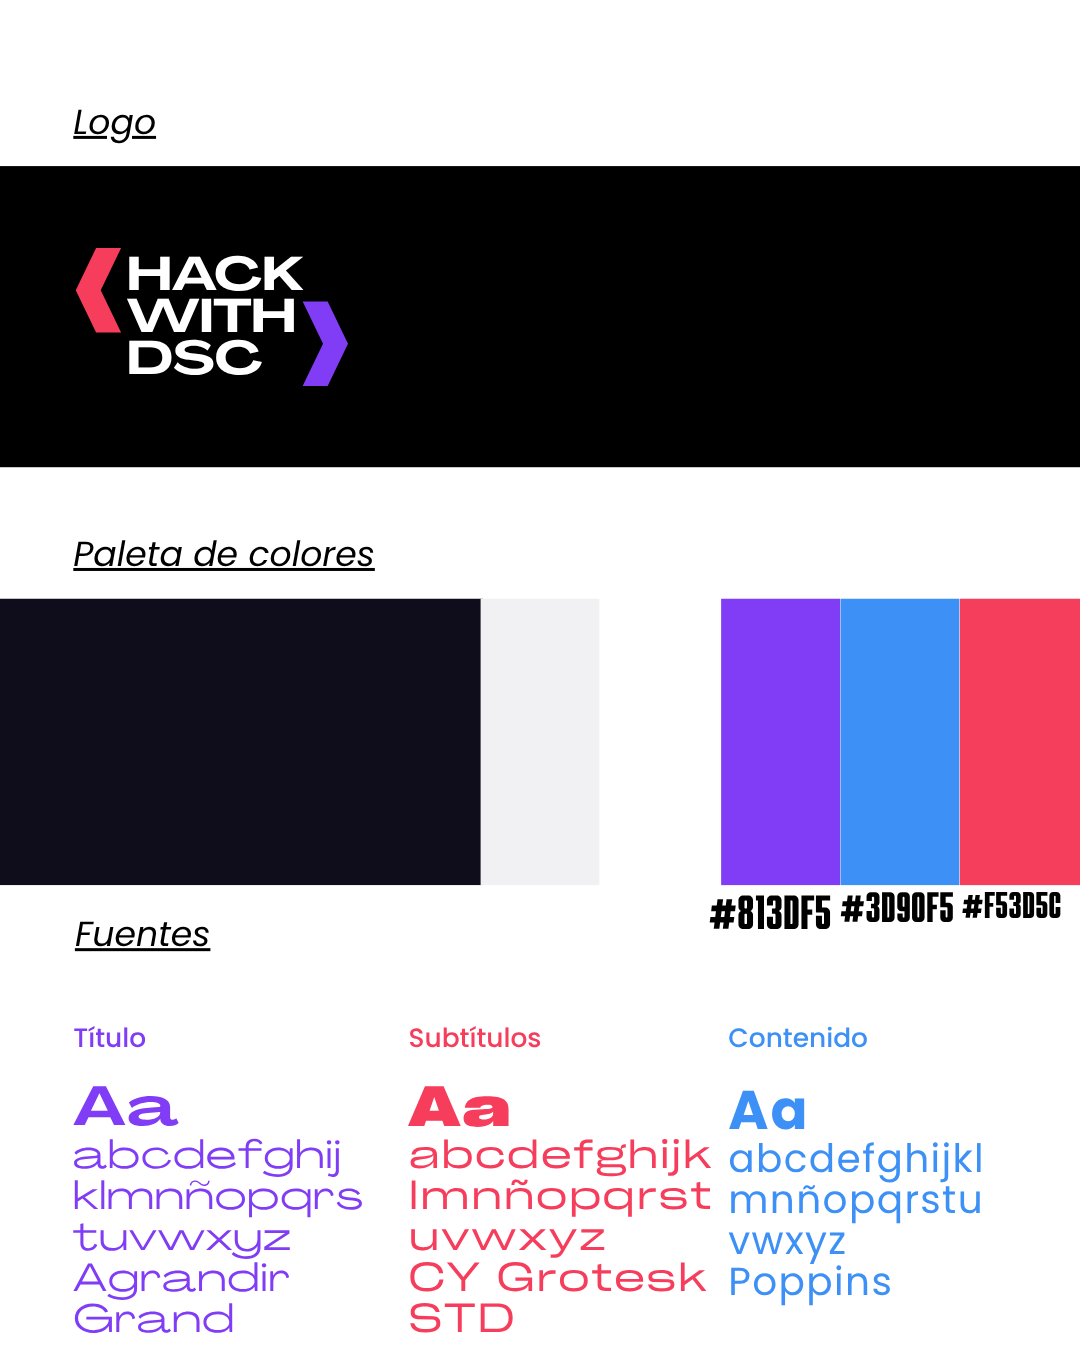
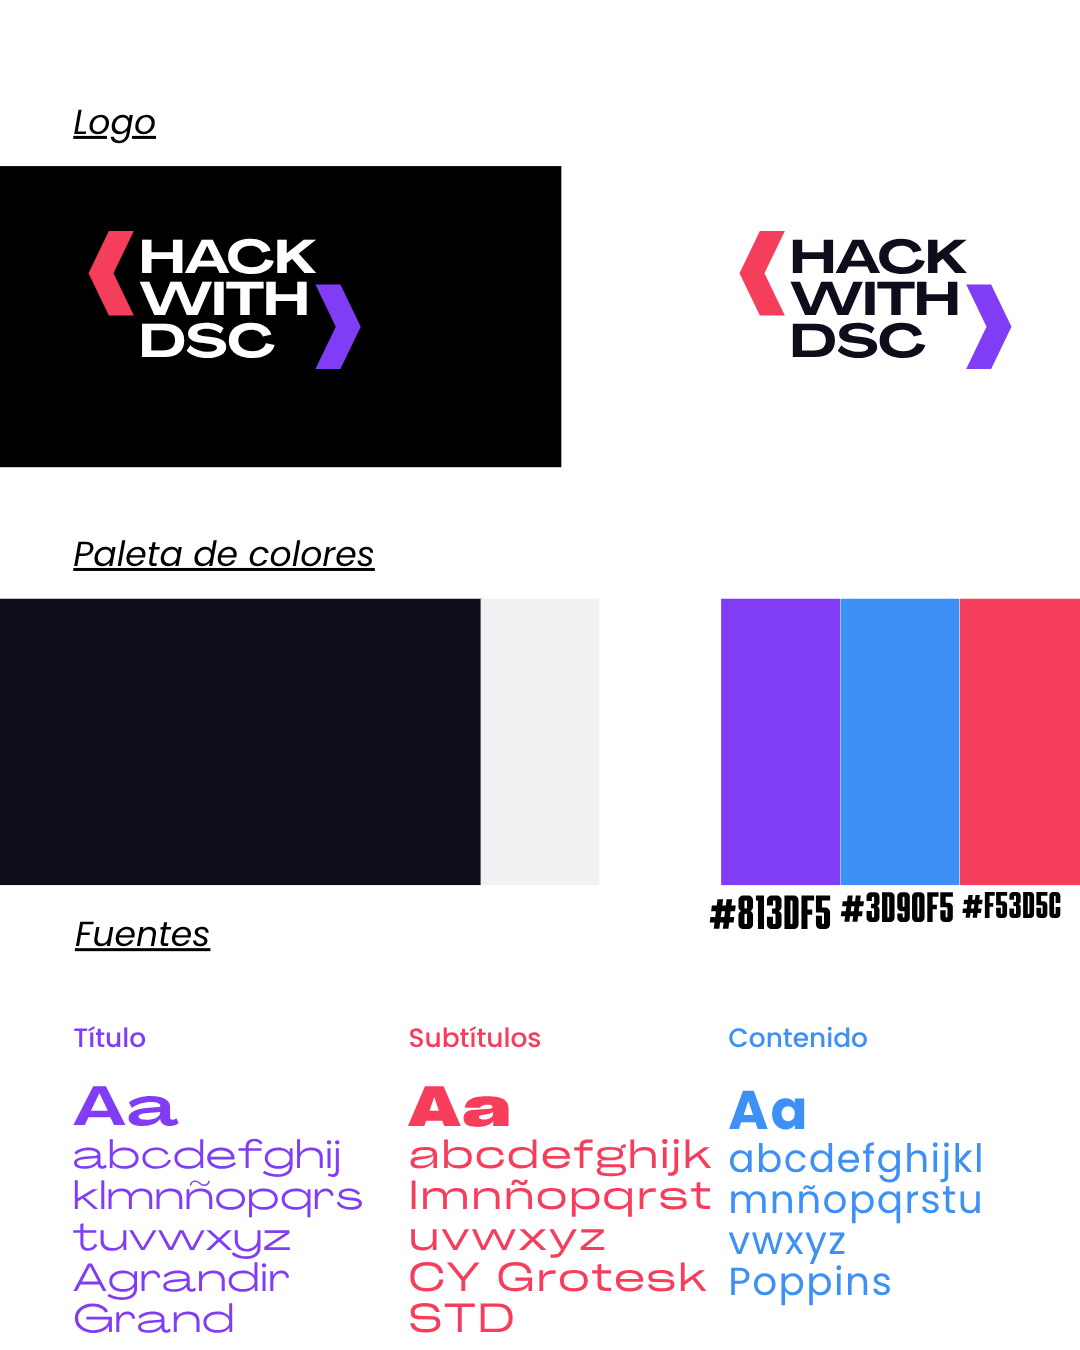
Add brand identity assets
This change adds the official Hack with DSC visual identity reference in markdown and updates the corresponding brand image asset under identidad-visual. It documents the logo, color palette, and typography used by the project.

Changed region(s): [[0.5194, 0.1244, 1.0, 0.3733], [0.0611, 0.1556, 0.3361, 0.3111]]

diff --git a/identidad-visual/identidad_visual_hack_with_dsc.md b/identidad-visual/identidad_visual_hack_with_dsc.md
@@ -1,0 +1,16 @@
+# Identidad Visual - Hack with DSC
+
+## 1. Logo
+El logotipo es tipográfico y presenta el nombre "HACK WITH DSC" apilado verticalmente en tres líneas. Está flanqueado por dos corchetes angulares que hacen alusión a etiquetas de código (uno invertido a la izquierda y otro normal a la derecha), con el corchete izquierdo en color rosa/rojo y el derecho en morado. Se muestran dos versiones: una en negativo (texto blanco sobre fondo negro) y otra en positivo (texto negro sobre fondo blanco).
+
+## 2. Paleta de Colores
+La identidad se apoya en fondos neutros contrastantes (un tono muy oscuro casi negro y un tono muy claro/blanco), destacando con tres colores vibrantes principales:
+- **Morado:** `#813DF5`
+- **Azul:** `#3D90F5`
+- **Rosa/Rojo:** `#F53D5C`
+
+## 3. Tipografía (Fuentes)
+El sistema tipográfico utiliza tres familias distintas, asignadas a diferentes jerarquías de lectura:
+- **Título:** Agrandir Grand
+- **Subtítulos:** CY Grotesk STD
+- **Contenido (Cuerpo de texto):** Poppins
